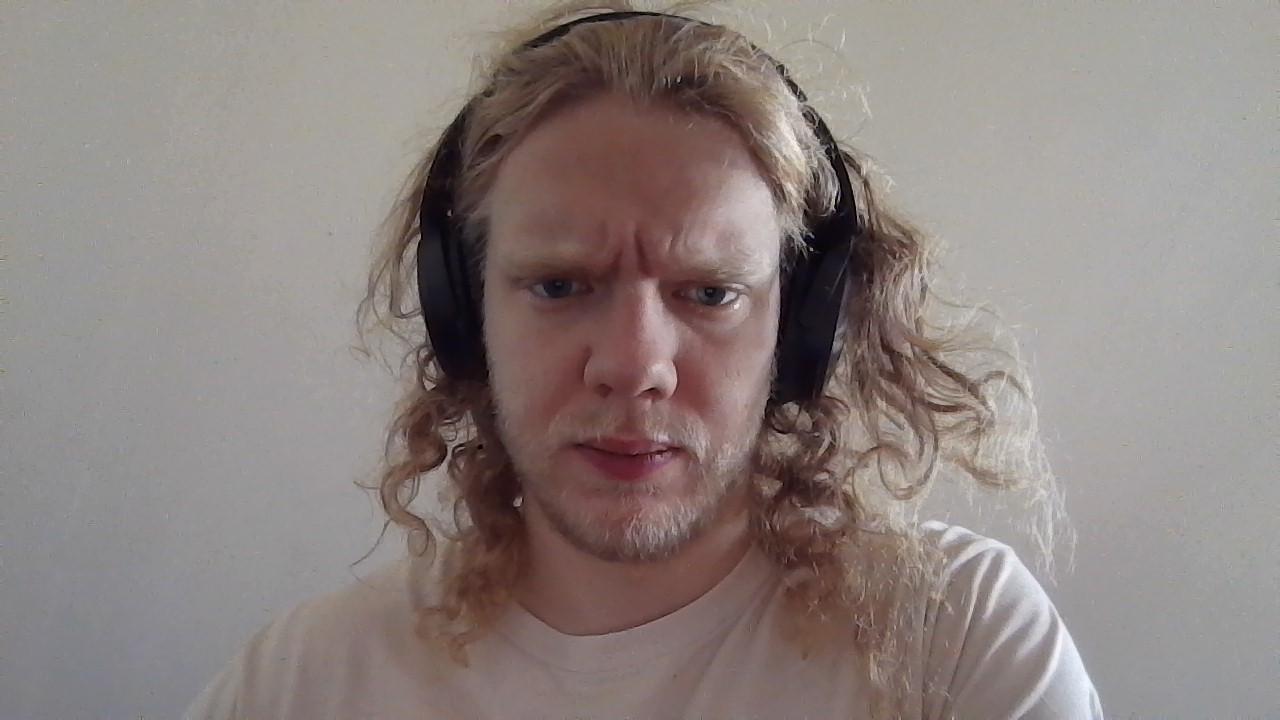
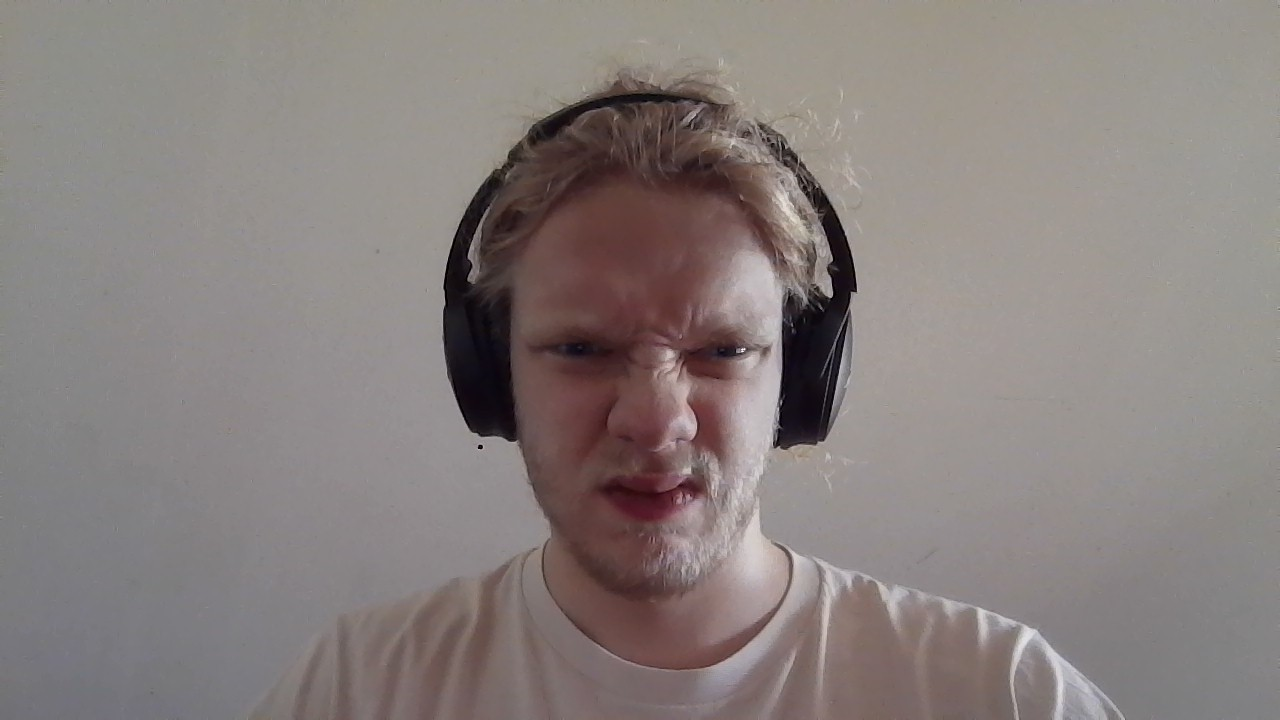
renew pics

diff --git a/prototypes/Sam/FER_emotion.py b/prototypes/Sam/FER_emotion.py
@@ -15,7 +15,7 @@ CURR_DIR_PATH = os.path.dirname(os.path.realpath(__file__))
 # input_image = cv2.imread(r"C:\Users\hajt\Desktop\gitgubbar\prototypes\Sam\rj_sad.jpg")
 
 # lägg in bild här
-input_image = cv2.imread(r"C:\Users\hajt\Desktop\gitgubbar\prototypes\Sam\rj_happy.jpg")
+input_image = cv2.imread(r"C:\Users\hajt\Desktop\gitgubbar\prototypes\Sam\rj_neutral.jpg")
 
 emotion_detector = FER()
 #emotion_detector = FER(mtcnn=True)
